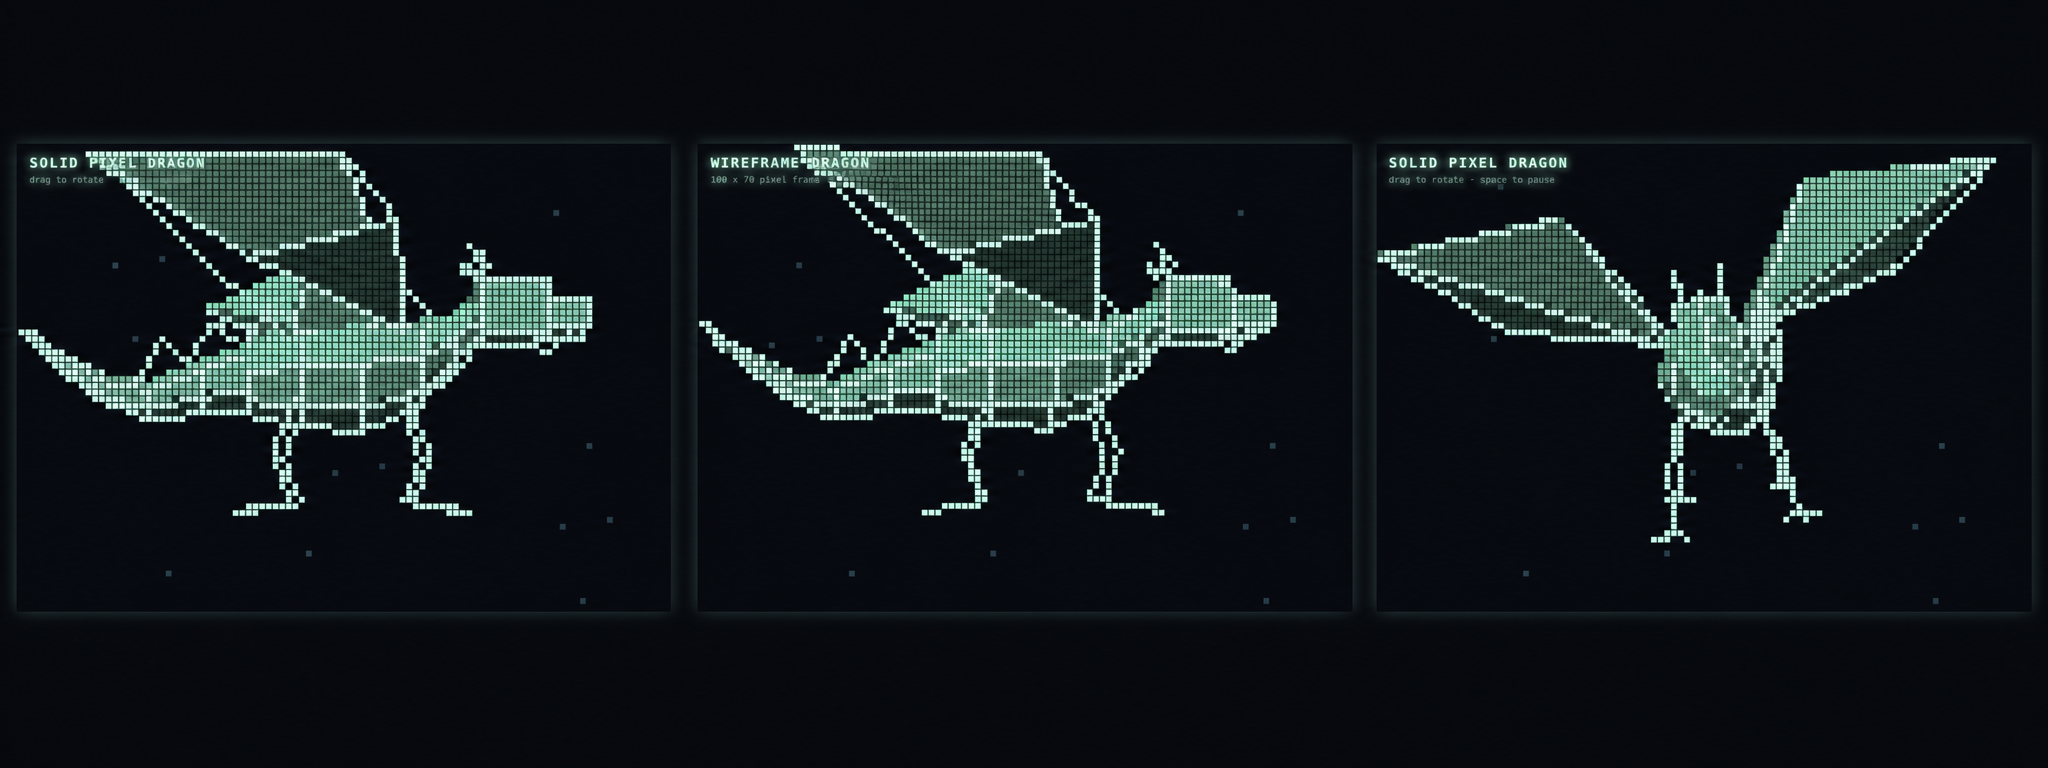
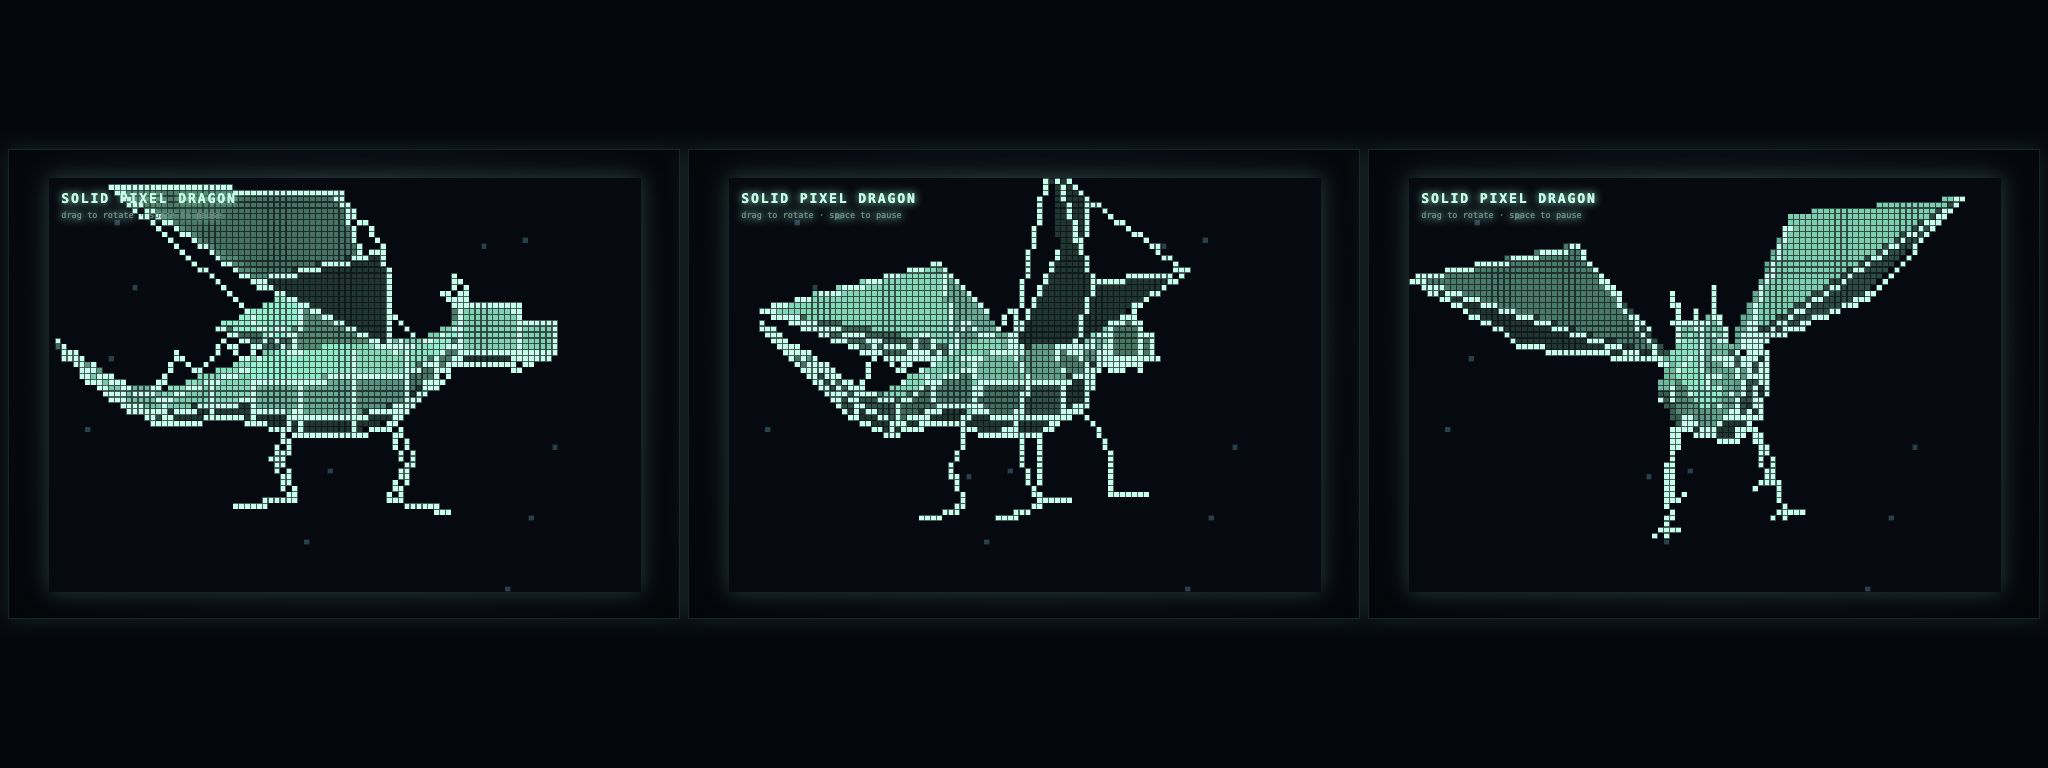
Correct renderer documentation

Changed region(s): [[0.3438, 0.1875, 0.625, 0.6875], [0.0, 0.1875, 0.3125, 0.6875], [0.6562, 0.1875, 1.0, 0.7188]]

diff --git a/README.md b/README.md
@@ -166,7 +166,7 @@ Easy way to think about it: **an object is a toy you can pick up, move, turn, or
 The scene keeps track of all the objects:
 
 ```js
-const scene = createScene();
+const scene = createScene({ mode: "solid" });
 const cube = createCube();
 
 scene.add(triangle);
@@ -187,7 +187,7 @@ The camera decides where the scene is viewed from. The default camera sits in fr
 
 A camera turns each 3D vertex into a 2D screen position. This is called projection. It is the same basic thing a real camera does when it turns a room into a flat photograph.
 
-Projection does not change the real 3D object. It calculates where each of its vertices should appear in the 2D frame. Farther vertices are placed closer to the centre, so the object's screen image becomes smaller.
+Projection does not change the real 3D object. It calculates where each of its vertices should appear in the 2D frame. For the same left/right or up/down offset, a larger depth produces a smaller offset on screen. That is why a whole object usually looks smaller as it moves away from the camera.
 
 The core calculation is:
 
@@ -207,7 +207,7 @@ const screenY = frame.height / 2
   - (view.y * focalLength) / depth;
 ```
 
-`view` is the vertex position relative to the camera. `focalLength` is the camera's zoom, calculated from its field of view. Screen Y uses subtraction because canvas coordinates increase downwards.
+`view` is the vertex position relative to the camera. `focalLength` acts like zoom and is calculated from the camera's field of view. Screen Y uses subtraction because canvas coordinates increase downwards.
 
 Here is one actual vertex on a 20 by 12 frame. The camera is at `z: 5`, the field of view is 90 degrees, and that gives a focal length of 10:
 
@@ -221,7 +221,7 @@ const camera = createCamera({
 const vertex = { x: 2, y: 1, z: 0 };
 const projected = camera.project(vertex, frame);
 
-// { x: 14, y: 4, depth: 5 }
+// approximately { x: 14, y: 4, depth: 5 }
 ```
 
 The X calculation is:
@@ -237,18 +237,20 @@ close, depth 5:  10 + (2 × 10 ÷ 5)  = 14
 far, depth 10:   10 + (2 × 10 ÷ 10) = 12
 ```
 
-Projection repeats this calculation for every vertex. When all the projected vertices move closer together, the complete triangle, cube, or dragon looks smaller.
+Projection repeats this calculation for every vertex. As an object moves away, its projected vertices normally move closer together, so the complete triangle, cube, or dragon looks smaller.
 
 Easy way to think about it: **the camera is your eye, and projection is the photograph it sees**.
 
-### 9. The rasterizer turns projected triangles into pixels
+### 9. The rasterizer finds the pixels covered by a triangle
 
 At this point the jobs are separate:
 
 ```text
 face       -> chooses three 3D vertices
 projection -> calculates three 2D screen positions
-rasterizer -> colours the pixels between those screen positions
+rasterizer -> finds the candidate pixels inside those screen positions
+depth test -> decides which candidate surface is visible at each pixel
+frame      -> stores the winning colour
 ```
 
 The renderer's flow is approximately:
@@ -278,7 +280,7 @@ After the camera projects a face, it has three corners on the 2D screen:
       ●───────●
 ```
 
-The rasterizer finds the screen pixels inside those corners and colours them:
+The rasterizer finds the screen pixels inside those corners and calculates a depth for each one:
 
 ```text
           ●
@@ -288,7 +290,9 @@ The rasterizer finds the screen pixels inside those corners and colours them:
       ●███████●
 ```
 
-Easy way to think about it: **the rasterizer is a colouring pen that stays inside the triangle**.
+Those are candidate pixels. Before a colour is written, the depth buffer checks whether that part of the triangle is closer than anything already found there.
+
+Easy way to think about it: **the rasterizer is a stencil that says which pixels the triangle covers; the depth buffer decides which stencil is on top**.
 
 ### 10. The depth buffer makes the nearest surface win
 
@@ -319,11 +323,11 @@ colour frame pixel: cyan
 depth buffer pixel: 3
 ```
 
-The depth buffer starts each new animation frame filled with infinity, meaning nothing has been seen yet. Whenever a triangle reaches a pixel, the renderer performs this test:
+The depth buffer starts each new animation frame filled with infinity, meaning nothing has been seen yet. Whenever the rasterizer finds a candidate pixel, the renderer performs this test. This simplified version matches the decision made for solid triangles:
 
 ```js
-if (newDepth < savedDepth) {
-  save(newDepth);
+if (newDepth <= savedDepth) {
+  if (newDepth < savedDepth) save(newDepth);
   frame.pixel(x, y, color);
 }
 ```
@@ -341,8 +345,9 @@ create a frame
     -> put objects in a scene
     -> move or rotate the objects
     -> the camera turns 3D vertices into 2D positions
-    -> the rasterizer colours pixels inside each projected triangle
-    -> the depth buffer keeps the closest surface at each pixel
+    -> the rasterizer finds candidate pixels inside each projected triangle
+    -> the depth buffer accepts the closest surface at each pixel
+    -> accepted colours are written into the frame
     -> the frame now contains the finished picture
     -> the canvas renderer displays it
     -> repeat for the next animation frame
@@ -380,7 +385,7 @@ animate(({ delta }) => {
 | `Object3D` | Holds and moves one mesh | A movable toy |
 | Scene | Holds and renders the objects | A tabletop |
 | Camera | Chooses the viewpoint and projects every vertex into 2D | Your eye taking a photo |
-| Rasterizer | Colours pixels inside the three projected corners | A colouring pen |
+| Rasterizer | Finds candidate pixels inside the three projected corners | A triangle stencil |
 | Depth buffer | Decides which surface is visible at every pixel | Closest wins |
 | Lighting | Makes faces lighter or darker | A lamp |
 | Clipping | Cuts away geometry that crosses the camera boundary | Camera-safe scissors |
@@ -462,7 +467,7 @@ The default camera is at `{ x: 0, y: 0, z: 5 }`, looking towards the origin. Pos
 
 The dragon is a larger demonstration of the same public API. It has a procedural mesh, solid triangle faces, depth-tested outlines, simple lighting, a star field, and a complete 360-degree rotation.
 
-![The pixel dragon shown at three points in its rotation](docs/dragon-rotation.png)
+![The pixel dragon shown at three points in its rotation](https://raw.githubusercontent.com/KirstenAli/pixel-scene-kit/main/docs/dragon-rotation.png)
 
 - [`dragon.html`](examples/dragon.html) contains the page and presentation.
 - [`dragon.js`](examples/dragon.js) sets up the frame, camera, scene, controls, and animation.
@@ -515,6 +520,8 @@ scene.render(frame, {
 
 Solid modes use one depth buffer for the whole scene. That means a nearby surface wins even when the farther object was added later. Geometry crossing the camera's near plane is clipped instead of suddenly disappearing.
 
+Flat lighting shades hexadecimal colours such as `#29c99b` and `rgb(...)` colours. Other valid canvas colour strings still render, but are used without automatic lightening or darkening.
+
 ## Building your own mesh
 
 An `Object3D` has vertices, optional wireframe edges, and triangular faces:
@@ -555,7 +562,7 @@ v  0  1 0
 f 1 2 3
 ```
 
-Each `v` line stores one vertex as `x y z`. The `f` line says that vertices 1, 2, and 3 form one face. Loading the file converts that text into an `Object3D`:
+Each `v` line stores one vertex as `x y z`. The `f` line says that vertices 1, 2, and 3 form one face. OBJ counts vertices from 1; JavaScript arrays and `Object3D` faces count from 0. The loader converts the OBJ indexes for you, then turns the text into an `Object3D`:
 
 ```text
 .obj text -> vertices and faces -> Object3D -> scene -> pixels
@@ -592,6 +599,14 @@ Polygon faces are triangulated automatically, while their original boundary edge
 This is a CPU renderer made for small canvases, pixel art, learning, and experiments. It is not trying to compete with a GPU engine such as Three.js—and that is rather the point.
 
 ## Install and develop
+
+The package is not on the npm registry yet. Until the first npm release, install it directly from GitHub:
+
+```sh
+npm install github:KirstenAli/pixel-scene-kit
+```
+
+After it is published to npm, the command will be:
 
 ```sh
 npm install pixel-scene-kit